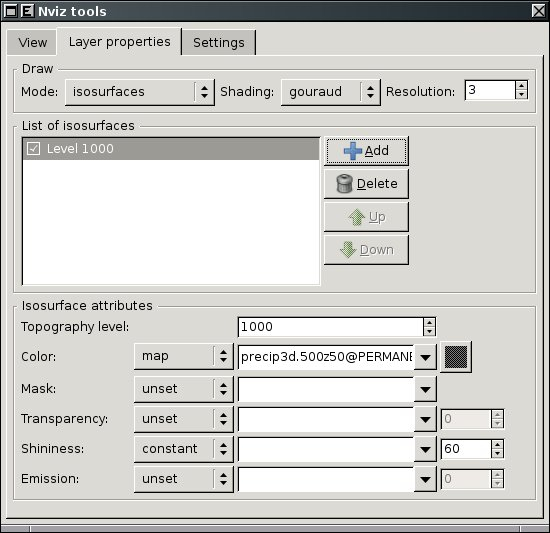
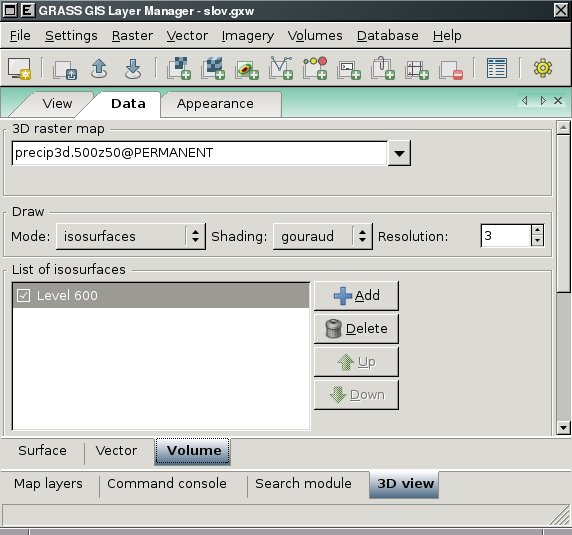
wxGUI/nviz: update screenshots in the manual + cosmetics

diff --git a/gui/wxpython/docs/wxGUI.Nviz.html b/gui/wxpython/docs/wxGUI.Nviz.html
@@ -1,19 +1,21 @@
 <h2>DESCRIPTION</h2>
 
-<b>Note:</b> <em>wxGUI Nviz extension is currently under development. Not
+<b>Note:</b> <em>wxNviz is currently under development. Not
 all functionality is implemented.</em>
 
 <p>
-<b>wxGUI Nviz extension</b> allows users to realistically render multiple
+<b>wxNviz</b> is a <em><a href="wxGUI.html">wxGUI</a></em> <b>3D view
+mode</b> which allows users to realistically render multiple
 <em>surfaces</em> (raster data) in a 3D space, optionally using
 thematic coloring, draping 2D <em>vector</em> data over the surfaces,
 displaying 3D vector data in the space, and visualization
 of <em>volume</em> data (3D raster data).
 
 <p>
-To start the wxGUI Nviz extension, choose '3D view' from the map toolbar.
+To start the wxGUI 3D view mode, choose '3D view' from the map
+toolbar.
 <p>
-Nviz is emphasized on the ease and speed of viewer positioning and
+wxNviz is emphasized on the ease and speed of viewer positioning and
 provided flexibility for using a wide range of data. A low resolution
 surface or wire grid (optional) provides real-time viewer positioning
 capabilities. Coarse and fine resolution controls allow the user to
@@ -22,11 +24,11 @@ of elevation provides the ability to use various data types for the
 vertical dimension.
 
 <p>
-For each session of Nviz, you might want the same set of 2D/3D raster
-and vector data, view parameters, or other attributes. For consistency
-between sessions, you can store this information in
-the <em>workspace</em> file (gxw). Workspace file contains information
-to restore "state" of the system in 2D and if Nviz is enabled also in
+For each session of wxNviz, you might want the same set of 2D/3D
+raster and vector data, view parameters, or other attributes. For
+consistency between sessions, you can store this information in the
+GRASS <em>workspace</em> file (gxw). Workspace contains information to
+restore "state" of the system in 2D and if wxNviz is enabled also in
 the 3D display mode.
 
 <h2>Data visualization</h2>
@@ -87,24 +89,25 @@ attributes:
     light emitted from the current volume. Range from 0 to 255.</li>
 </ul>
 
-<h2>Nviz Toolbox Window</h2>
+<h2>Toolbox</h2>
 
-The toolbox window has currently three tabs:
+The 3D view toolbox is integrated in the Layer Manager. The toolbox
+has several tabs:
 
 <ul>
-  <li>View<li>
-  <li>Layer properties<li>
-  <li>Settings</li>
+  <li><b>View</b> for view controling,</li>
+  <li><b>Data</b> for data properties,</li>
+  <li><b>Appearance</b> for appearance settings (lighting, fringes, ...).</li>
 </ul>
 
 <h3>View</h3>
 
 You can use this panel to set the <em>position, direction, and
   perspective</em> of the view. The position box shows a puck with a
-direction line pointing to the center. The direction line indicates
-the look direction (azimuth). You click and drag the puck to change
-the current eye position. The box annotations are North, South,
-East, and West. You can also set exact position using <em>Look
+  direction line pointing to the center. The direction line indicates
+  the look direction (azimuth). You click and drag the puck to change
+  the current eye position. The box annotations are North, South,
+  East, and West. You can also set exact position using <em>Look
   at</em> choice control.
 
 <center>
@@ -116,20 +119,20 @@ twist value to rotate the scene about the horizontal axis. An angle of
 0 is flat. The scene rotates between -90 and 90 degrees.
 
 <p>
-  You can also adjusts the vertical exaggeration of the surface. As an
-  example, if the easting and northing are in meters and the elevation
-  in feet, a vertical exaggeration of 0.305 would produce a true
-  (unexaggerated) surface.
+You can also adjusts the vertical exaggeration of the surface. As an
+example, if the easting and northing are in meters and the elevation
+in feet, a vertical exaggeration of 0.305 would produce a true
+(unexaggerated) surface.
   
 <p>
-  <em>Reset</em> returns all current settings to their default values.
+<em>Reset</em> returns all current settings to their default values.
 
-<h3>Surface properties</h3>
+<h3>Data properties (surface)</h3>
 
 This panel controls how loaded surfaces are drawn. The top half of the
 panel has options to set, unset or modify attributes of the current
-surface.The bottom half has drawing style options, masking or changing
-surface position in the space.
+surface. The bottom half has drawing style options, masking or
+changing surface position in the space.
 
 <center>
   <br><img src="wxGUI_nviz_tools_surface.jpg" border="1"><br><br>
@@ -140,10 +143,10 @@ realistic). You can set draw <b>mode</b> to <em>coarse</em> (fast
 display mode), <em>fine</em> (draws surface as filled polygons with
 fine resolution) or <em>both</em> (which combines coarse and fine
 mode). Additionally set coarse <b>style</b> to <em>wire</em> to draw
-the surface as wire mesh (you can also choose color of the
-wire) or <em>surface</em> to draw the surface using coarse resolution
-filled polygons.  This is a low resolution version of the polygon
-surface style.
+the surface as wire mesh (you can also choose color of the wire)
+or <em>surface</em> to draw the surface using coarse resolution filled
+polygons. This is a low resolution version of the polygon surface
+style.
 
 E.g. surface is drawn as a wire mesh if you set <b>mode</b>
 to <em>coarse</em> and <b>style</b> to <em>wire</em>. Note that it
@@ -159,10 +162,9 @@ draws the surfaces with flat shading with one color for every two
 cells. The surface appears faceted.
 
 <p>
-  To set given draw settings for all loaded surfaces press button
-  "All".
+To set given draw settings for all loaded surfaces press button "All".
 
-<h3>Vector properties</h3>
+<h3>Data properties (vector)</h3>
 
 This panel controls how loaded 2D or 3D vector data are drawn.
 
@@ -191,16 +193,16 @@ applies to wire-frame markers). Currently are implemented these
 markers:
 
 <ul>
-  <li><b>x</b> sets the current points markers to a 2D "X";</li>
-  <li><b>sphere</b> - solid 3D sphere;</li>
-  <li><b>diamond</b> - solid 3D diamond;</li>
-  <li><b>cube</b> - solid 3D cube;</li>
-  <li><b>box</b> - hollow 3D cube;</li>
-  <li><b>gyroscope</b> - hollow 3D sphere;</li>
-  <li><b>asterisk</b> - 3D line-star;</li>
+  <li><b>x</b> sets the current points markers to a 2D "X",</li>
+  <li><b>sphere</b> - solid 3D sphere,</li>
+  <li><b>diamond</b> - solid 3D diamond,</li>
+  <li><b>cube</b> - solid 3D cube,</li>
+  <li><b>box</b> - hollow 3D cube,</li>
+  <li><b>gyroscope</b> - hollow 3D sphere,</li>
+  <li><b>asterisk</b> - 3D line-star.</li>
 </ul>
  
-<h3>Volume properties</h3>
+<h3>Data properties (volume)</h3>
 
 This panel controls how loaded volumes are drawn. Volume can be drawn
 in two different modes: <b>isosurface</b> or <b>slice</b>. The top
@@ -222,7 +224,7 @@ visualization modes:
 
 <ul>
   <li><b>isosurface</b> - the levels of values for drawing the
-  volume(s) as isosurfaces;</li>
+  volume(s) as isosurfaces,</li>
   <li>and <b>slice</b> - the levels of values for drawing the volume
   as cross-sections.</li>
 </ul>
@@ -239,14 +241,11 @@ parameters, or to set the background color of the Map Display Window
 
 <ul>
   <li>Improve intuitive navigation (mouse, fly mode)</li>
-  <li>Interactive lighting controls</li>
   <li>Animation capabilities</li>
-  <li>Data querying and measuring</li>
   <li>Arbitrary cutting planes</li>
   <li>Labels, decoration, etc.</li>
   <li>Scripting capabilities</li>
   <li>Better workspace support (view settings, lighting)
-  <li>Image Dump</li>
   <li>Surface - mask by zero/elevation, more interactive positioning</li>
   <li>Vector points - implement display mode flat/surface for 2D points</li>
   <li>Volume - slice draw mode</li>
@@ -254,7 +253,7 @@ parameters, or to set the background color of the Map Display Window
 </ul>
 
 <p>
-<b>Please note that the wxGUI Nviz extension is under active development and
+<b>Please note that wxNviz is under active development and
 distributed as &quot;Experimental Prototype&quot;.</b>
 
 <h2>SEE ALSO</h2>
@@ -269,7 +268,11 @@ Original <a href="nviz.html">TCL/TK-based</a> Nviz.
 
 <h2>AUTHORS</h2>
 
-Martin Landa, Google Summer of Code 2008 (Mentor: Michael Barton)
+Martin
+Landa, <a href="http://grass.osgeo.org/wiki/WxNviz_GSoC_2008">Google
+Summer of Code 2008</a> (mentor: Michael Barton)
+and <a href="http://grass.osgeo.org/wiki/WxNviz_GSoC_2010">Google
+Summer of Code 2008</a> (mentor: Helena Mitasova)
 
 <p>
 <i>$Date$</i>

diff --git a/gui/wxpython/gui_modules/globalvar.py b/gui/wxpython/gui_modules/globalvar.py
@@ -135,7 +135,7 @@ else:
     EXT_BIN = ''
     EXT_SCT = ''
 
-def GetGRASSCmds(bin=True, scripts=True, gui_scripts=True):
+def GetGRASSCmds(bin = True, scripts = True, gui_scripts = True):
     """!Create list of all available GRASS commands to use when
     parsing string from the command line
     """
@@ -150,9 +150,9 @@ def GetGRASSCmds(bin=True, scripts=True, gui_scripts=True):
         
         # add special call for setting vector colors
         cmd.append('vcolors')
-    if scripts is True:
+    if scripts:
         cmd = cmd + os.listdir(os.path.join(gisbase, 'scripts')) 
-    if gui_scripts is True:
+    if gui_scripts:
         os.environ["PATH"] = os.getenv("PATH") + os.pathsep + os.path.join(gisbase, 'etc', 'gui', 'scripts')
         cmd = cmd + os.listdir(os.path.join(gisbase, 'etc', 'gui', 'scripts'))
        
@@ -166,7 +166,7 @@ def GetGRASSCmds(bin=True, scripts=True, gui_scripts=True):
 """@brief Collected GRASS-relared binaries/scripts"""
 grassCmd = {}
 grassCmd['all'] = GetGRASSCmds()
-grassCmd['script'] = GetGRASSCmds(bin=False)
+grassCmd['script'] = GetGRASSCmds(bin = False)
 
 """@Toolbar icon size"""
 toolbarSize = (24, 24)
